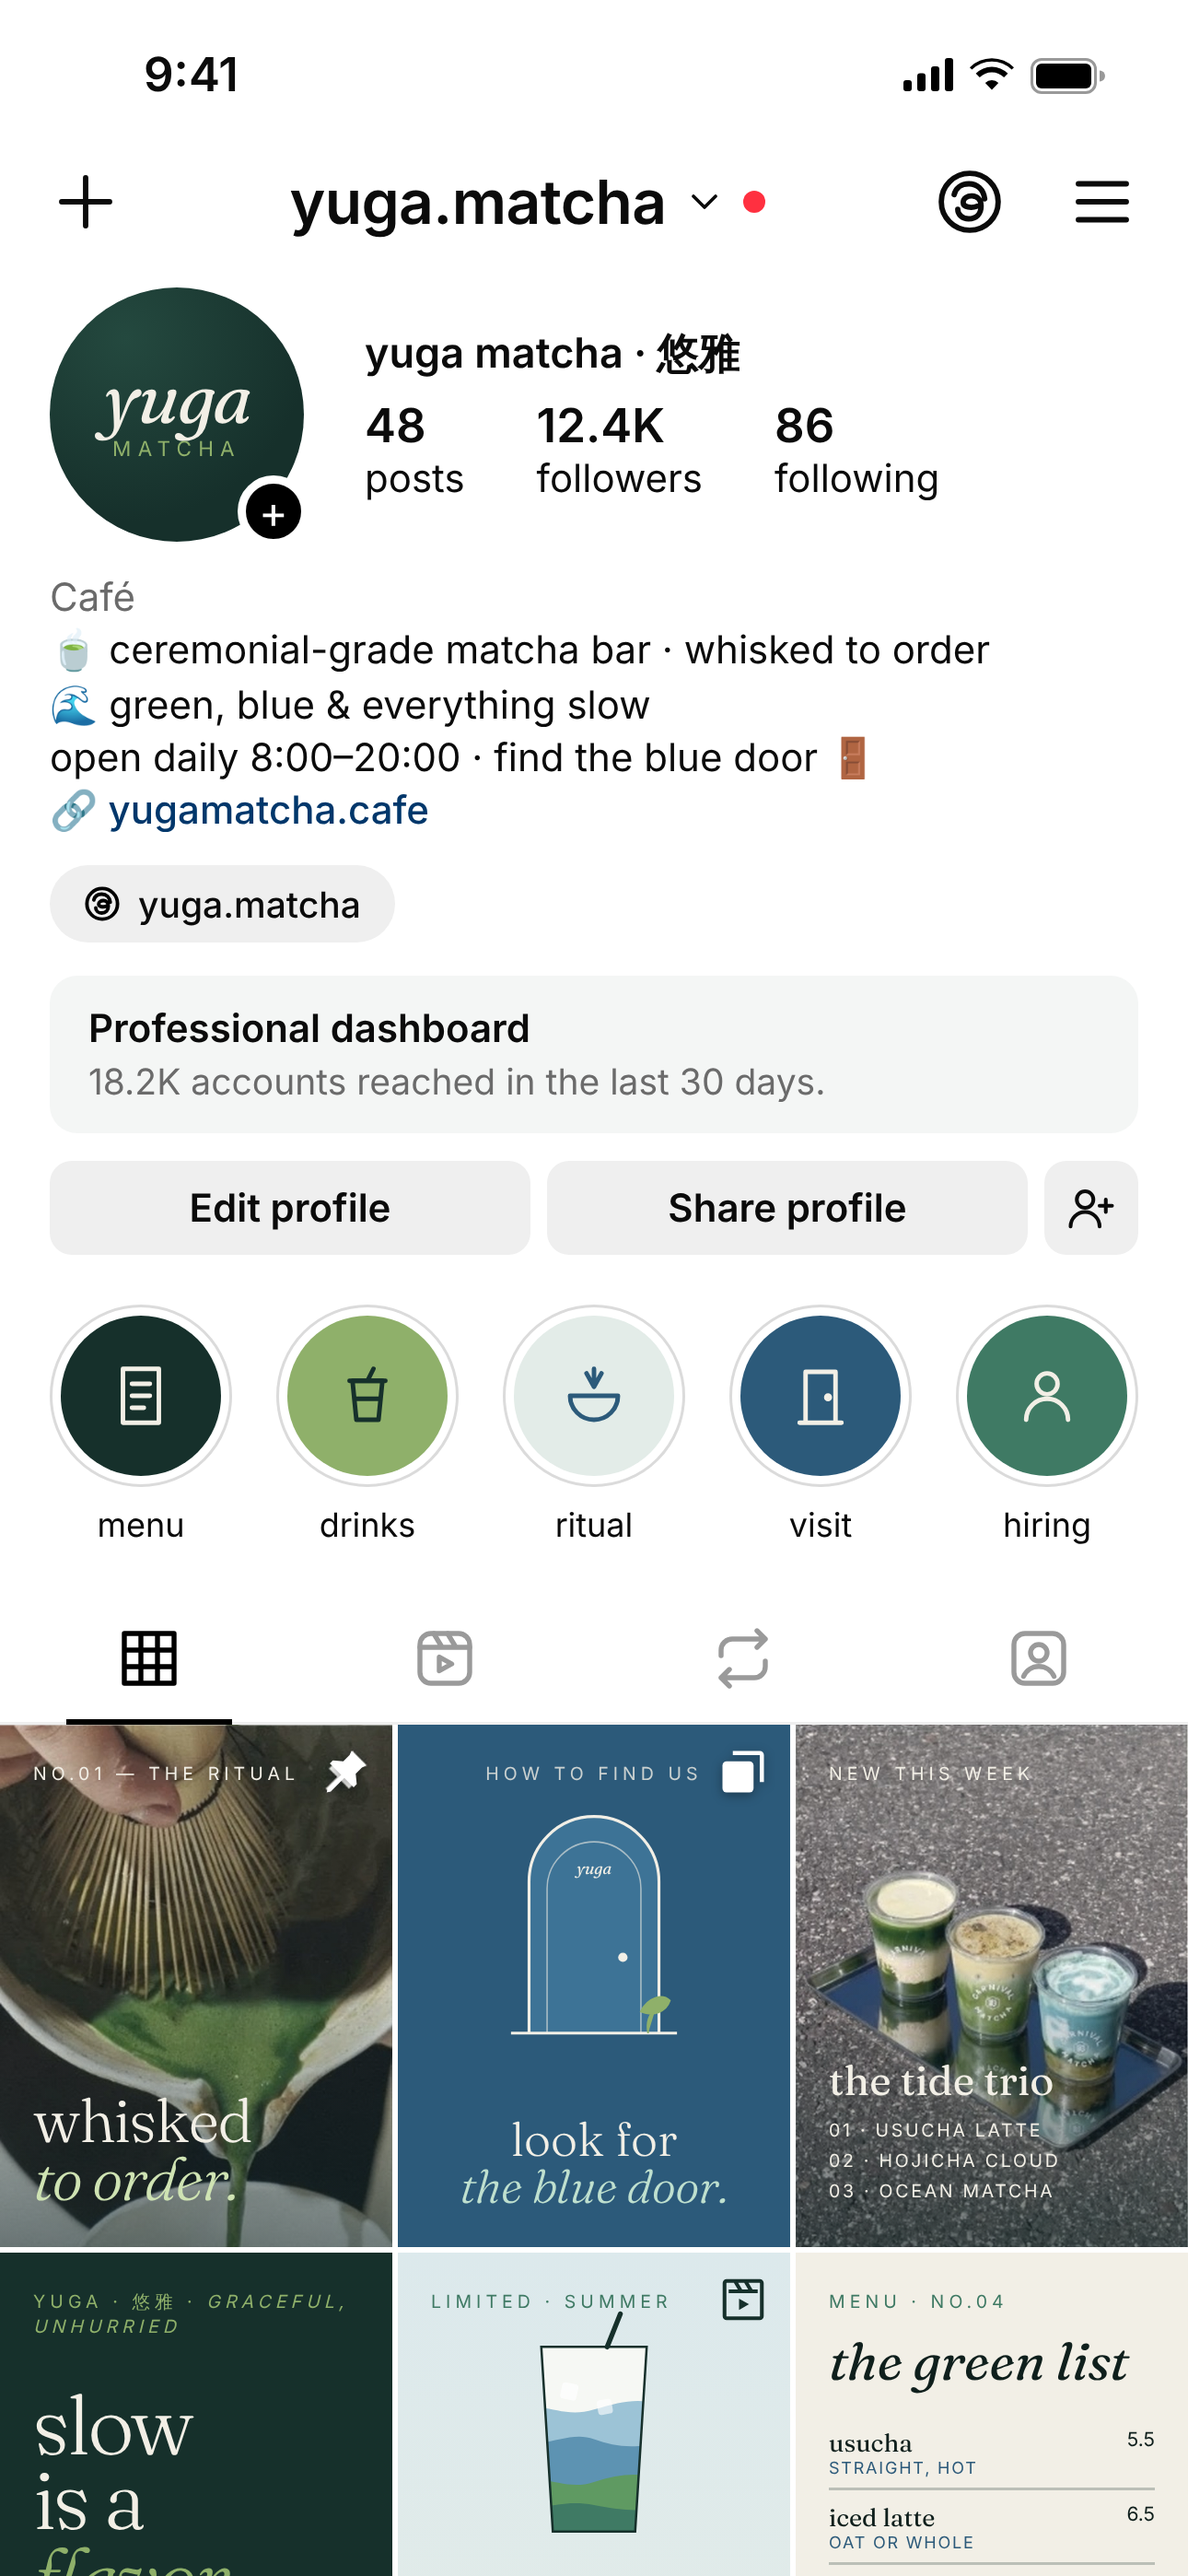
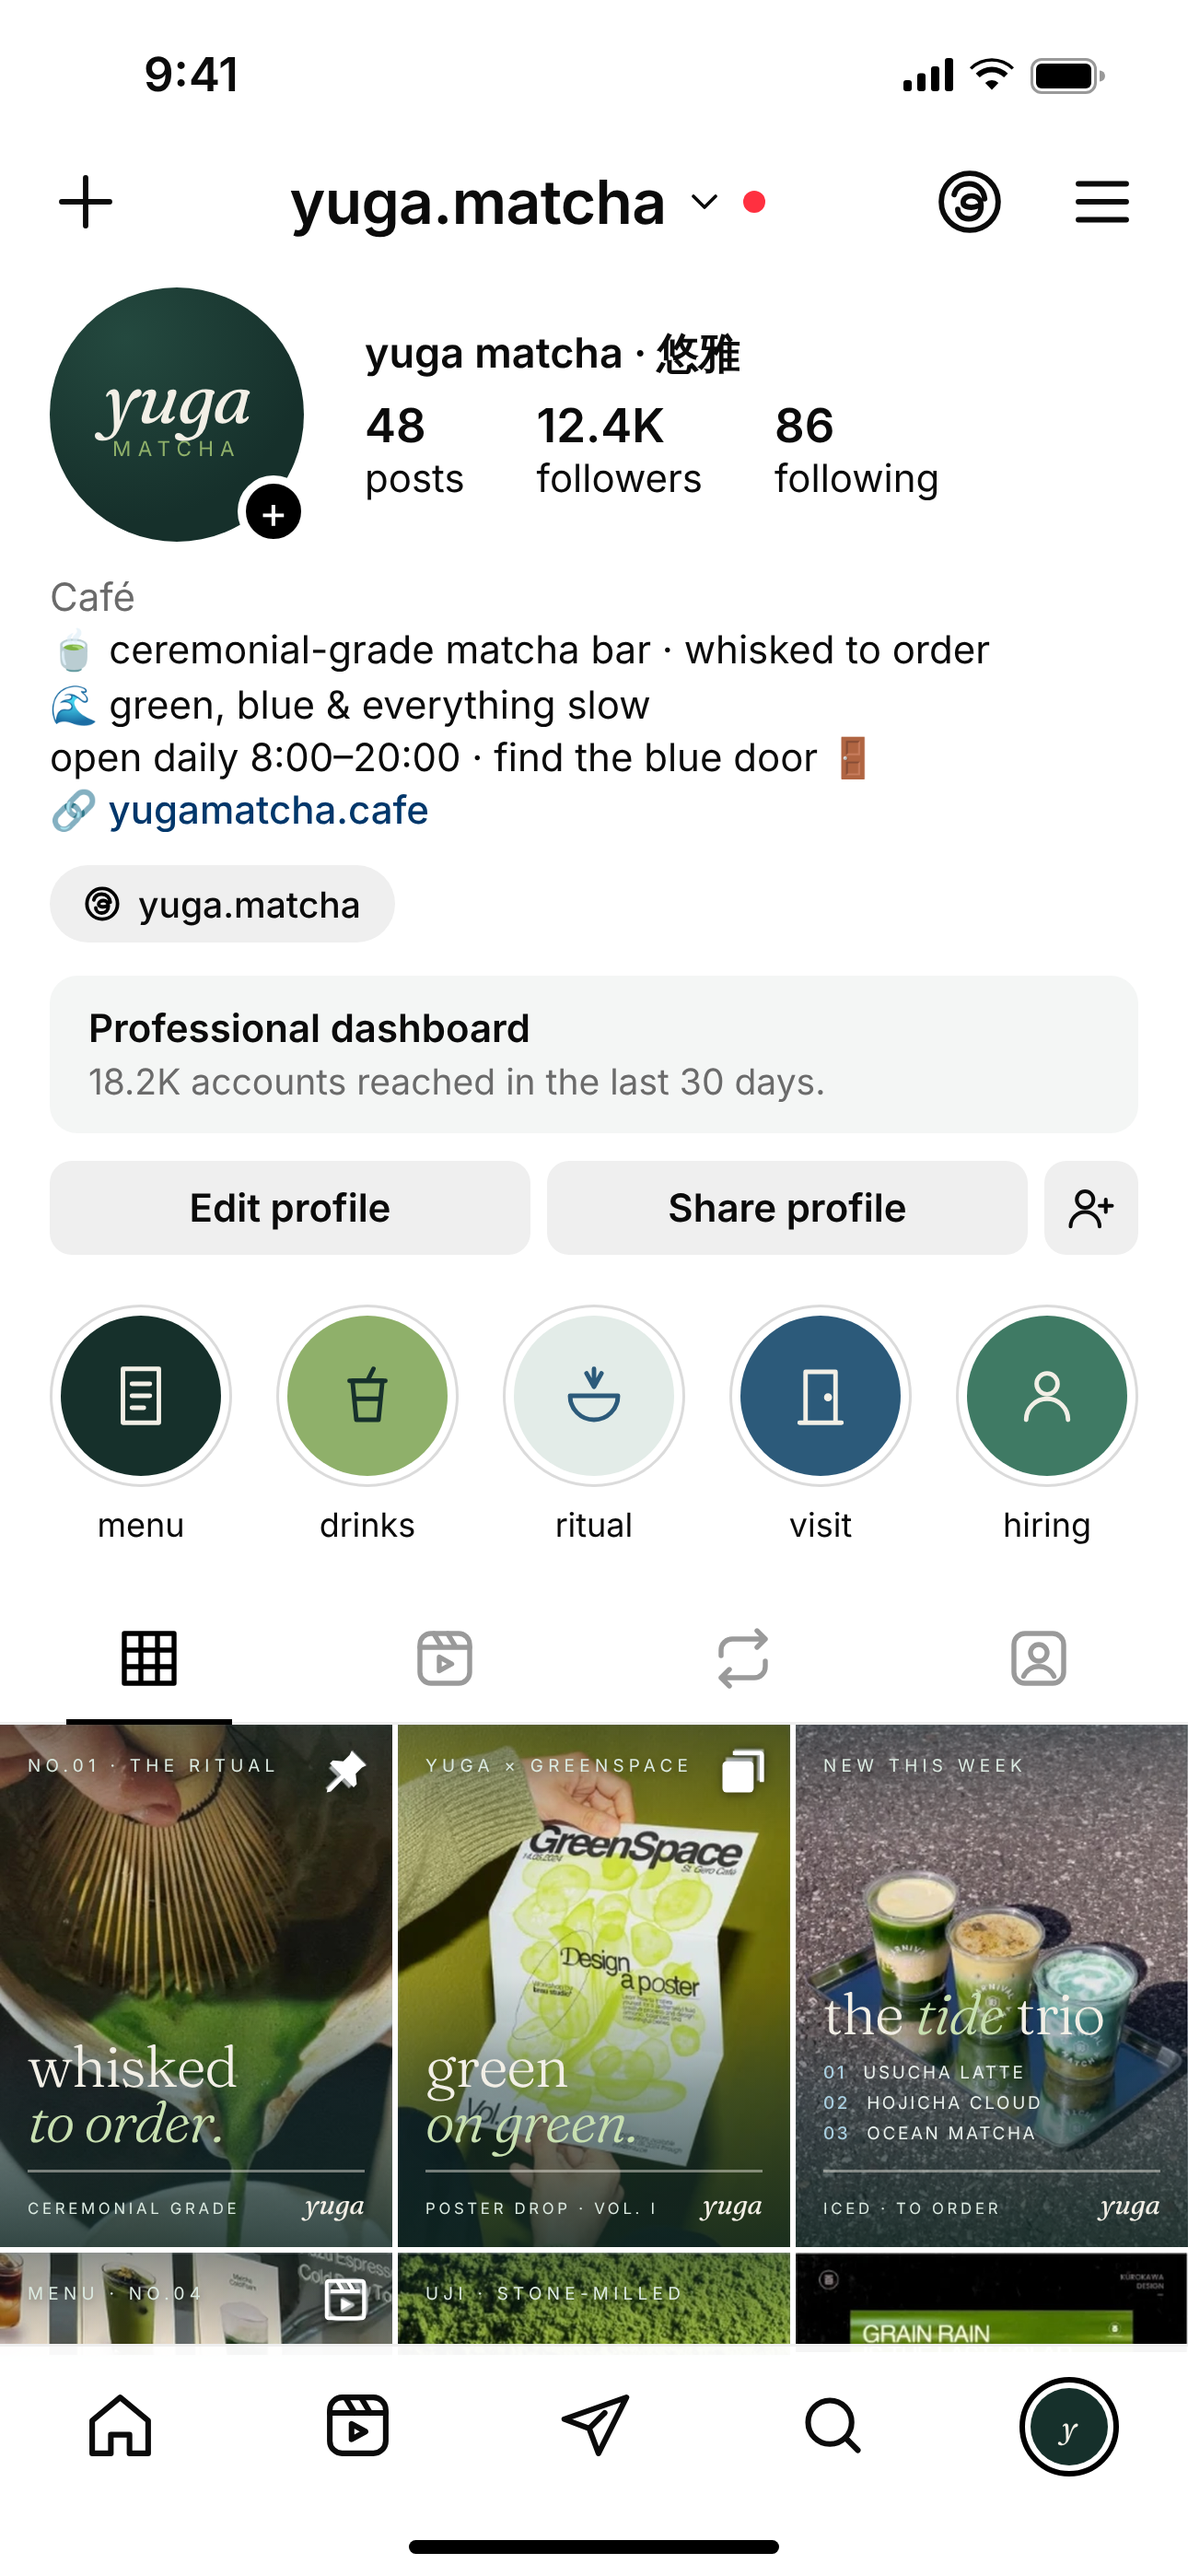
Use original feed photos with on-brand type overlays
Keeps the posted photos untouched and layers the yuga type system
(tag, serif headline, signature line, wordmark) over a soft veil.
Previous illustrated feed kept as illustrated.html.

Claude-Session: https://claude.ai/code/session_01LeNJWbRRytmtP1d3PviNvR

Changed region(s): [[0.0, 0.6534, 1.0, 1.0]]

diff --git a/mockups/yuga-matcha/illustrated.html b/mockups/yuga-matcha/illustrated.html
@@ -167,25 +167,6 @@
   .nav svg { width: 27px; height: 27px; }
   .nav .me { width: 28px; height: 28px; border-radius: 50%; background: var(--pine); outline: 2px solid #000; outline-offset: 2px; display: grid; place-items: center; font-family: Fraunces; font-style: italic; color: var(--cream); font-size: 11px; }
   .homebar { position: absolute; bottom: 8px; left: 50%; transform: translateX(-50%); width: 134px; height: 5px; border-radius: 3px; background: #000; }
-
-  /* photo posts: photo untouched, a soft pine/door-blue veil only where text sits */
-  .phone { height: 932px; }
-  .nav { position: absolute; left: 0; right: 0; bottom: 0; }
-  .shot { background-size: cover; background-position: center top; }
-  .shot.top { background-size: 100% auto; background-repeat: no-repeat; background-color: #e9eeec; }
-  .shot .veil { position: absolute; inset: 0; z-index: 1; background:
-      linear-gradient(180deg, rgba(14,36,46,.42) 0%, rgba(14,36,46,0) 22%),
-      linear-gradient(0deg, rgba(16,40,36,.82) 0%, rgba(20,52,58,.45) 30%, rgba(20,52,58,0) 52%); }
-  .shot .veil-top { position: absolute; left: 0; right: 0; top: 0; height: 40px; z-index: 1; background: linear-gradient(180deg, rgba(14,36,46,.45), rgba(14,36,46,0)); }
-  .shot .pad { z-index: 2; color: var(--cream); padding: 11px 10px 9px; }
-  .shot .tag { font-size: 6.3px; letter-spacing: .28em; color: #dcebe2; text-shadow: 0 1px 3px rgba(0,0,0,.35); }
-  .shot .bottom { margin-top: auto; }
-  .shot h2 { font-weight: 300; font-size: 21px; line-height: .95; letter-spacing: -0.02em; text-shadow: 0 1px 8px rgba(0,0,0,.25); }
-  .shot h2 i { color: #c8e0b0; font-weight: 300; }
-  .shot .list { list-style: none; margin-top: 6px; font-family: Inter; font-size: 6.3px; letter-spacing: .14em; text-transform: uppercase; line-height: 1.75; color: #e8f0ec; }
-  .shot .list b { font-weight: 500; color: #a9cfe0; margin-right: 6px; }
-  .shot .sig { display: flex; justify-content: space-between; align-items: baseline; margin-top: 7px; padding-top: 5px; border-top: .5px solid rgba(242,239,230,.45); font-family: Inter; font-size: 5.6px; letter-spacing: .22em; text-transform: uppercase; color: #dcebe2; }
-  .shot .sig .wm { font-family: Fraunces; font-style: italic; font-size: 10px; letter-spacing: 0; text-transform: none; color: var(--cream); }
 </style>
 </head>
 <body>
@@ -256,57 +237,179 @@
     <div><svg class="i" viewBox="0 0 24 24"><rect x="3" y="3" width="18" height="18" rx="4"/><circle cx="12" cy="10" r="3"/><path d="M6.5 18.5a6 6 0 0 1 11 0"/></svg></div>
   </div>
 
-  <!-- ───── FEED: original photos, untouched — brand type layered on top ───── -->
+  <!-- ───── FEED (newest first) ───── -->
   <div class="grid">
 
-    <!-- whisk pour (pinned) -->
-    <div class="post shot" style="background-image:url(img/orig-whisk.jpg)">
+    <!-- 1 · pinned hero photo -->
+    <div class="post photo p-whisk">
       <span class="badge"><svg viewBox="0 0 24 24"><path d="M15 2l7 7-2 1-3 3 .5 5L16 19.5 11.5 15 5 21.5 3 22l.5-2L10 13.5 4.5 8 6 6.5l5 .5 3-3z"/></svg></span>
-      <div class="veil"></div>
       <div class="pad">
-        <span class="tag">no.01 · the ritual</span>
-        <div class="bottom">
-          <h2>whisked<br><i>to order.</i></h2>
-          <div class="sig"><span>ceremonial grade</span><span class="wm">yuga</span></div>
-        </div>
+        <span class="tag">no.01 — the ritual</span>
+        <h2>whisked<br><i>to order.</i></h2>
       </div>
     </div>
 
-    <!-- green poster (carousel) -->
-    <div class="post shot" style="background-image:url(img/orig-poster.jpg)">
+    <!-- 2 · blue door (carousel) -->
+    <div class="post p-door">
       <span class="badge"><svg viewBox="0 0 24 24"><path d="M7 2h13a2 2 0 0 1 2 2v13h-2V4H7z"/><rect x="2" y="7" width="15" height="15" rx="2"/></svg></span>
-      <div class="veil"></div>
+      <svg class="doorart" viewBox="0 0 100 130">
+        <path d="M14 128V44a36 36 0 0 1 72 0v84" fill="#3d7396" stroke="#f2efe6" stroke-width="1.6"/>
+        <path d="M24 128V48a26 26 0 0 1 52 0v80" fill="none" stroke="#f2efe6" stroke-width=".8" opacity=".6"/>
+        <circle cx="66" cy="86" r="2.6" fill="#f2efe6"/>
+        <path d="M4 128h92" stroke="#f2efe6" stroke-width="1.6"/>
+        <path d="M76 116c4-8 12-10 16-6-2 6-9 9-16 6zM80 128c-1-6 0-10 4-13" fill="#8fb06a" stroke="#8fb06a" stroke-width="1"/>
+        <text x="50" y="40" text-anchor="middle" font-family="Fraunces" font-style="italic" font-size="9" fill="#f2efe6">yuga</text>
+      </svg>
       <div class="pad">
-        <span class="tag">yuga × greenspace</span>
-        <div class="bottom">
-          <h2>green<br><i>on green.</i></h2>
-          <div class="sig"><span>poster drop · vol. I</span><span class="wm">yuga</span></div>
-        </div>
+        <span class="tag">how to find us</span>
+        <h2>look for<br><i>the blue door.</i></h2>
       </div>
     </div>
 
-    <!-- three cups -->
-    <div class="post shot" style="background-image:url(img/orig-trio.jpg)">
-      <div class="veil"></div>
+    <!-- 3 · summer trio photo -->
+    <div class="post photo p-trio">
       <div class="pad">
         <span class="tag">new this week</span>
-        <div class="bottom">
-          <h2>the <i>tide</i> trio</h2>
-          <ul class="list"><li><b>01</b>usucha latte</li><li><b>02</b>hojicha cloud</li><li><b>03</b>ocean matcha</li></ul>
-          <div class="sig"><span>iced · to order</span><span class="wm">yuga</span></div>
+        <div class="names">
+          <h2>the tide trio</h2>
+          <ul><li>01 · usucha latte</li><li>02 · hojicha cloud</li><li>03 · ocean matcha</li></ul>
         </div>
       </div>
     </div>
 
-    <!-- second row: only the top edge shows above the tab bar -->
-    <div class="post shot top" style="background-image:url(img/orig-menu-top.jpg)">
-      <span class="badge"><svg viewBox="0 0 24 24"><path d="M4 3h16a1 1 0 0 1 1 1v16a1 1 0 0 1-1 1H4a1 1 0 0 1-1-1V4a1 1 0 0 1 1-1zm1 5h14M8 3l3 5M13 3l3 5" fill="none" stroke="currentColor" stroke-width="1.8"/><path d="M10 11.5v5.5l4.8-2.75z"/></svg></span>
-      <div class="veil-top"></div><div class="pad"><span class="tag">menu · no.04</span></div>
+    <!-- 4 · manifesto -->
+    <div class="post p-slow">
+      <div class="pad">
+        <span class="tag">yuga · 悠雅 · <i>graceful, unhurried</i></span>
+        <h2>slow<br>is a<br><i>flavor.</i></h2>
+        <div class="foot"><span>yuga matcha</span><span>est. '24</span></div>
+      </div>
     </div>
-    <div class="post shot top" style="background-image:url(img/orig-powder-top.jpg)">
-      <div class="veil-top"></div><div class="pad"><span class="tag">uji · stone-milled</span></div>
+
+    <!-- 5 · ocean matcha (reel) -->
+    <div class="post p-ocean">
+      <span class="badge" style="color:#16302b;filter:none"><svg viewBox="0 0 24 24"><path d="M4 3h16a1 1 0 0 1 1 1v16a1 1 0 0 1-1 1H4a1 1 0 0 1-1-1V4a1 1 0 0 1 1-1zm1 5h14M8 3l3 5M13 3l3 5" fill="none" stroke="currentColor" stroke-width="1.8"/><path d="M10 11.5v5.5l4.8-2.75z"/></svg></span>
+      <svg class="glass" viewBox="0 0 100 140">
+        <defs><clipPath id="cup"><path d="M18 22h64l-7 112H25z"/></clipPath></defs>
+        <g clip-path="url(#cup)">
+          <rect x="0" y="22" width="100" height="120" fill="#f6f8f4"/>
+          <path d="M0 60c20-6 30 6 50 0s30-8 50 0v90H0z" fill="#9cc3d6"/>
+          <path d="M0 78c18 8 34-6 50 0s32 6 50-2v70H0z" fill="#5d93b2"/>
+          <path d="M0 104c20-6 32 6 50 0s30-6 50 0v40H0z" fill="#5f9a62"/>
+          <path d="M0 118c22 4 30-4 50 0s30 4 50 0v30H0z" fill="#3f7a64"/>
+          <rect x="30" y="44" width="10" height="10" rx="2" fill="#fff" opacity=".7" transform="rotate(12 35 49)"/>
+          <rect x="52" y="54" width="9" height="9" rx="2" fill="#fff" opacity=".6" transform="rotate(-10 56 58)"/>
+        </g>
+        <path d="M18 22h64l-7 112H25z" fill="none" stroke="#16302b" stroke-width="1.4"/>
+        <path d="M58 22 66 2" stroke="#16302b" stroke-width="3" stroke-linecap="round"/>
+      </svg>
+      <div class="pad">
+        <span class="tag" style="text-align:left;margin:0">limited · summer</span>
+        <h2>matcha, but<br>make it <i>ocean.</i></h2>
+        <span class="tag">butterfly pea · coconut · uji</span>
+      </div>
     </div>
-    <div class="post shot top" style="background-image:url(img/orig-grain-top.jpg)"></div>
+
+    <!-- 6 · menu card -->
+    <div class="post p-menu">
+      <div class="pad">
+        <span class="tag">menu · no.04</span>
+        <h2>the green list</h2>
+        <ol>
+          <li><span>usucha<em>straight, hot</em></span><span>5.5</span></li>
+          <li><span>iced latte<em>oat or whole</em></span><span>6.5</span></li>
+          <li><span>ocean matcha<em>butterfly pea</em></span><span>7</span></li>
+          <li><span>yuzu tonic<em>sparkling</em></span><span>7</span></li>
+        </ol>
+        <div class="foot" style="color:var(--jade)"><span>whisked to order</span><span>yuga</span></div>
+      </div>
+    </div>
+
+    <!-- 7 · ritual steps -->
+    <div class="post p-steps">
+      <span class="badge" style="color:#16302b;filter:none"><svg viewBox="0 0 24 24"><path d="M7 2h13a2 2 0 0 1 2 2v13h-2V4H7z"/><rect x="2" y="7" width="15" height="15" rx="2"/></svg></span>
+      <div class="pad">
+        <span class="tag">the ritual</span>
+        <h2>four steps,<br><i>no shortcuts.</i></h2>
+        <div class="row"><b>1</b><span><strong>sift</strong>2g ceremonial grade</span></div>
+        <div class="row"><b>2</b><span><strong>pour</strong>70ml at 80°C</span></div>
+        <div class="row"><b>3</b><span><strong>whisk</strong>“m” strokes, 20 sec</span></div>
+        <div class="row"><b>4</b><span><strong>sip</strong>slowly. that's it.</span></div>
+      </div>
+    </div>
+
+    <!-- 8 · brand seal -->
+    <div class="post p-seal">
+      <svg viewBox="0 0 200 200">
+        <defs><path id="ring" d="M100 100m-72 0a72 72 0 1 1 144 0a72 72 0 1 1-144 0"/></defs>
+        <circle cx="100" cy="100" r="88" fill="none" stroke="#f2efe6" stroke-width="1"/>
+        <circle cx="100" cy="100" r="56" fill="none" stroke="#f2efe6" stroke-width=".6" opacity=".6"/>
+        <text font-family="Inter" font-size="10.5" letter-spacing="4.1" fill="#f2efe6"><textPath href="#ring">CEREMONIAL GRADE · WHISKED TO ORDER · </textPath></text>
+        <text x="100" y="98" text-anchor="middle" font-family="Fraunces" font-style="italic" font-weight="300" font-size="34" fill="#f2efe6">yuga</text>
+        <text x="100" y="118" text-anchor="middle" font-family="Inter" font-size="8" letter-spacing="5" fill="#cfe3b3">MATCHA</text>
+        <path d="M100 128c-6 4-6 10 0 14 6-4 6-10 0-14z" fill="#cfe3b3"/>
+      </svg>
+    </div>
+
+    <!-- 9 · origin / grade -->
+    <div class="post p-grade">
+      <svg class="tin" viewBox="0 0 80 110">
+        <rect x="8" y="16" width="64" height="90" rx="4" fill="#e3ece8"/>
+        <rect x="6" y="8" width="68" height="14" rx="3" fill="#8fb06a"/>
+        <rect x="8" y="46" width="64" height="34" fill="#16302b"/>
+        <text x="40" y="62" text-anchor="middle" font-family="Fraunces" font-style="italic" font-size="12" fill="#f2efe6">yuga</text>
+        <text x="40" y="72" text-anchor="middle" font-family="Inter" font-size="4.2" letter-spacing="2" fill="#8fb06a">UJI · 30G</text>
+        <text x="40" y="96" text-anchor="middle" font-family="Inter" font-size="4" letter-spacing="1.6" fill="#2c5a7a">FIRST HARVEST</text>
+      </svg>
+      <div class="pad">
+        <span class="tag" style="opacity:.8">origin story</span>
+        <h2>shade-grown<br>in <i>uji, kyoto.</i></h2>
+        <div class="facts"><span>1st flush</span><span>·</span><span>stone-milled</span></div>
+      </div>
+    </div>
+
+    <!-- 10 · hiring -->
+    <div class="post p-hire">
+      <div class="pad">
+        <span class="tag">now hiring</span>
+        <h2>baristas<br><i>with a</i><br>steady wrist.</h2>
+        <p>part-time · weekends · we'll teach you the whisk.</p>
+        <span class="cta">apply → link in bio</span>
+      </div>
+    </div>
+
+    <!-- 11 · hours -->
+    <div class="post p-hours">
+      <div class="pad">
+        <svg class="sun" viewBox="0 0 60 40"><path d="M8 34a22 22 0 0 1 44 0" fill="none" stroke="#8fb06a" stroke-width="1.4"/><path d="M2 34h56" stroke="#6f9bb3" stroke-width="1.4"/><path d="M10 39h40" stroke="#6f9bb3" stroke-width=".8" opacity=".6"/><path d="M30 6v5M12 14l3 3M48 14l-3 3" stroke="#8fb06a" stroke-width="1.4" stroke-linecap="round"/></svg>
+        <span class="tag">open daily</span>
+        <h2>8:00 <i>—</i><br>20:00</h2>
+        <p>first whisk at sunrise,<br>last one at dusk.</p>
+        <div class="foot" style="color:var(--tide)"><span>find the blue door</span><span>yuga</span></div>
+      </div>
+    </div>
+
+    <!-- 12 · how we whisk (reel) -->
+    <div class="post p-reel">
+      <span class="badge" style="color:#16302b;filter:none"><svg viewBox="0 0 24 24"><path d="M4 3h16a1 1 0 0 1 1 1v16a1 1 0 0 1-1 1H4a1 1 0 0 1-1-1V4a1 1 0 0 1 1-1zm1 5h14M8 3l3 5M13 3l3 5" fill="none" stroke="currentColor" stroke-width="1.8"/><path d="M10 11.5v5.5l4.8-2.75z"/></svg></span>
+      <svg class="bowl" viewBox="0 0 120 100">
+        <g stroke="#16302b" stroke-width="1" fill="none">
+          <path d="M60 4v26"/>
+          <path d="M52 14h16v18H52z" fill="#e7d9b8"/>
+          <path d="M50 32c0 10 4 18 10 22 6-4 10-12 10-22" fill="#efe4c8"/>
+          <path d="M54 32l2 20M58 32l1 22M62 32l-1 22M66 32l-2 20"/>
+        </g>
+        <path d="M10 52h100c0 24-22 42-50 42S10 76 10 52z" fill="#2c5a7a"/>
+        <ellipse cx="60" cy="52" rx="50" ry="8" fill="#5f9a62"/>
+        <ellipse cx="60" cy="52" rx="34" ry="5" fill="#8fb06a"/>
+        <path d="M40 70c10 6 30 6 40 0" stroke="#6f9bb3" stroke-width="1.2" fill="none" opacity=".8"/>
+      </svg>
+      <div class="pad">
+        <h2>how we whisk:<br><i>a 20-second</i> ritual</h2>
+        <span class="play">▶ watch the reel</span>
+      </div>
+    </div>
+
   </div>
 
   <div class="nav">
